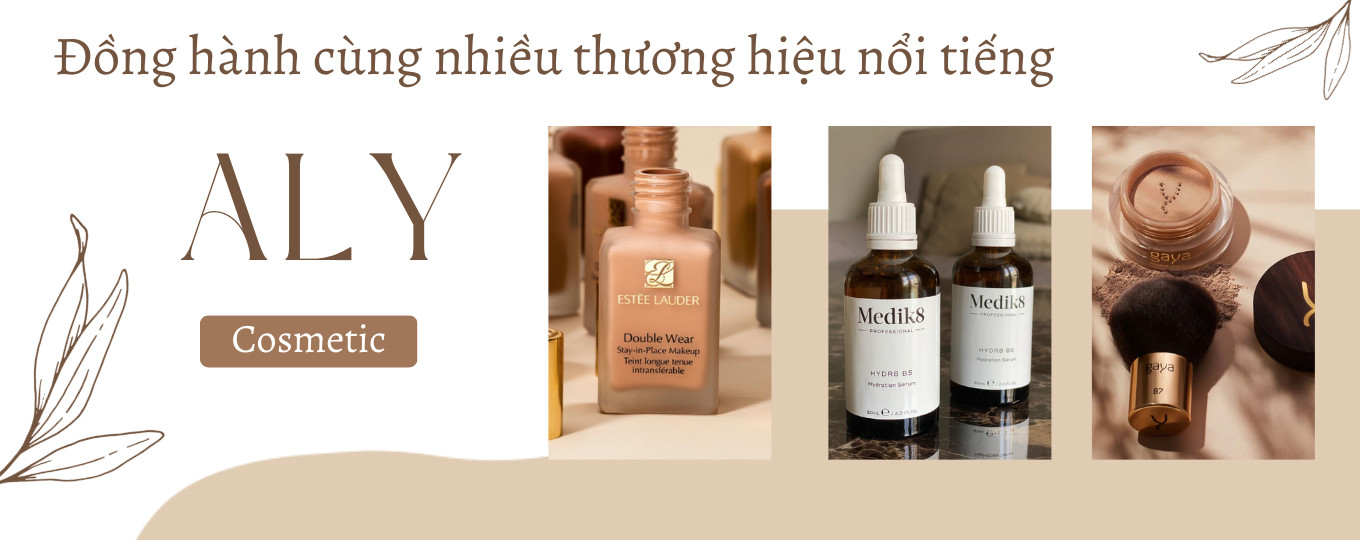
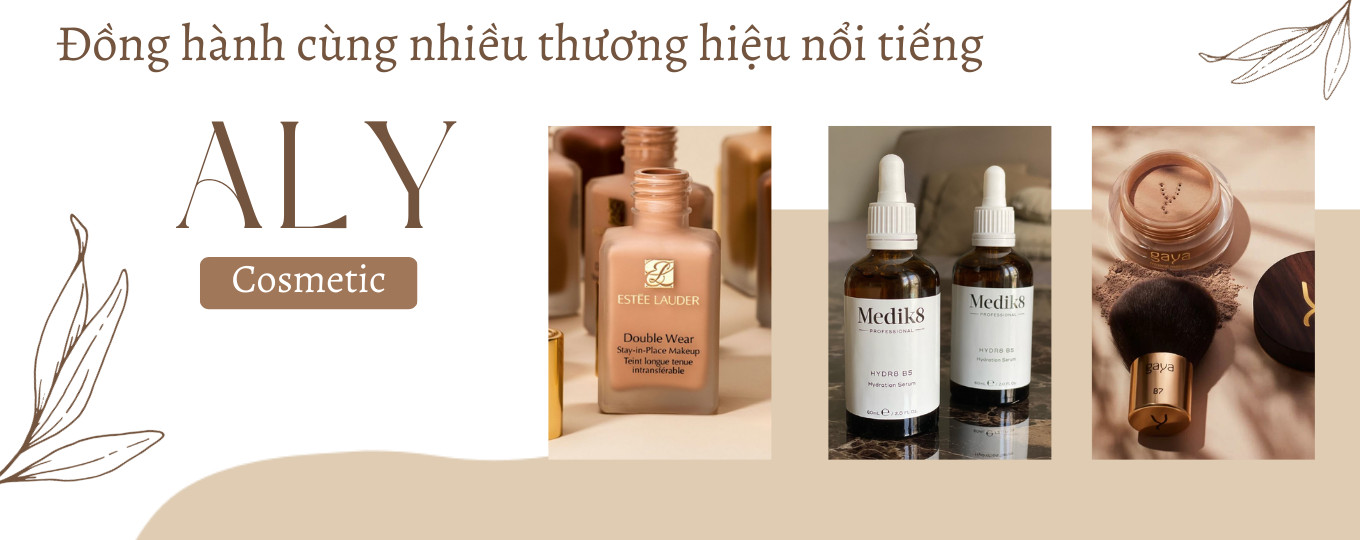
update screen home

Changed region(s): [[0.1235, 0.2074, 0.3397, 0.6815], [0.0309, 0.0296, 0.7721, 0.1778], [0.2471, 0.2074, 0.2779, 0.237]]

diff --git a/pages/index.vue b/pages/index.vue
@@ -72,7 +72,7 @@
     <h1 class="title-shop">BEAUTY SHOP</h1>
     <div class="stall-wrapper">
       <CardProduct
-        :img-url="'https://i.postimg.cc/VsZZJdyZ/DR-removebg-preview.png'"
+        :img-url="'_nuxt/public/image/product1.jpg'"
         :name-product="'Overnight Glow Serum'"
       />
       <CardProduct
@@ -127,7 +127,7 @@ definePageMeta({
       }
       .img-slide {
         width: 100%;
-        height: 700px;
+        height: 550px;
         background-size: cover;
         object-fit: cover;
       }
@@ -212,11 +212,11 @@ definePageMeta({
     h2 {
       font-family: 'Shantell Sans', cursive;
 
-      color: #ffd966;
+      color: #B89379;
       font-weight: 700;
     }
     h1 {
-      color: #ffd966;
+      color: #B89379;
       font-family: 'Shantell Sans', cursive;
       .strong {
         font-family: 'Shantell Sans', cursive;

diff --git a/components/generals/cardProduct.vue b/components/generals/cardProduct.vue
@@ -21,7 +21,7 @@
 const props = defineProps({
   imgUrl: {
     type: String,
-    default: false,
+    default: '',
   },
   nameProduct: {
     type: String,

diff --git a/public/image/index.ts b/public/image/index.ts
@@ -1,0 +1,3 @@
+import ImageProduct from './product1.jpg';
+
+export {ImageProduct}
